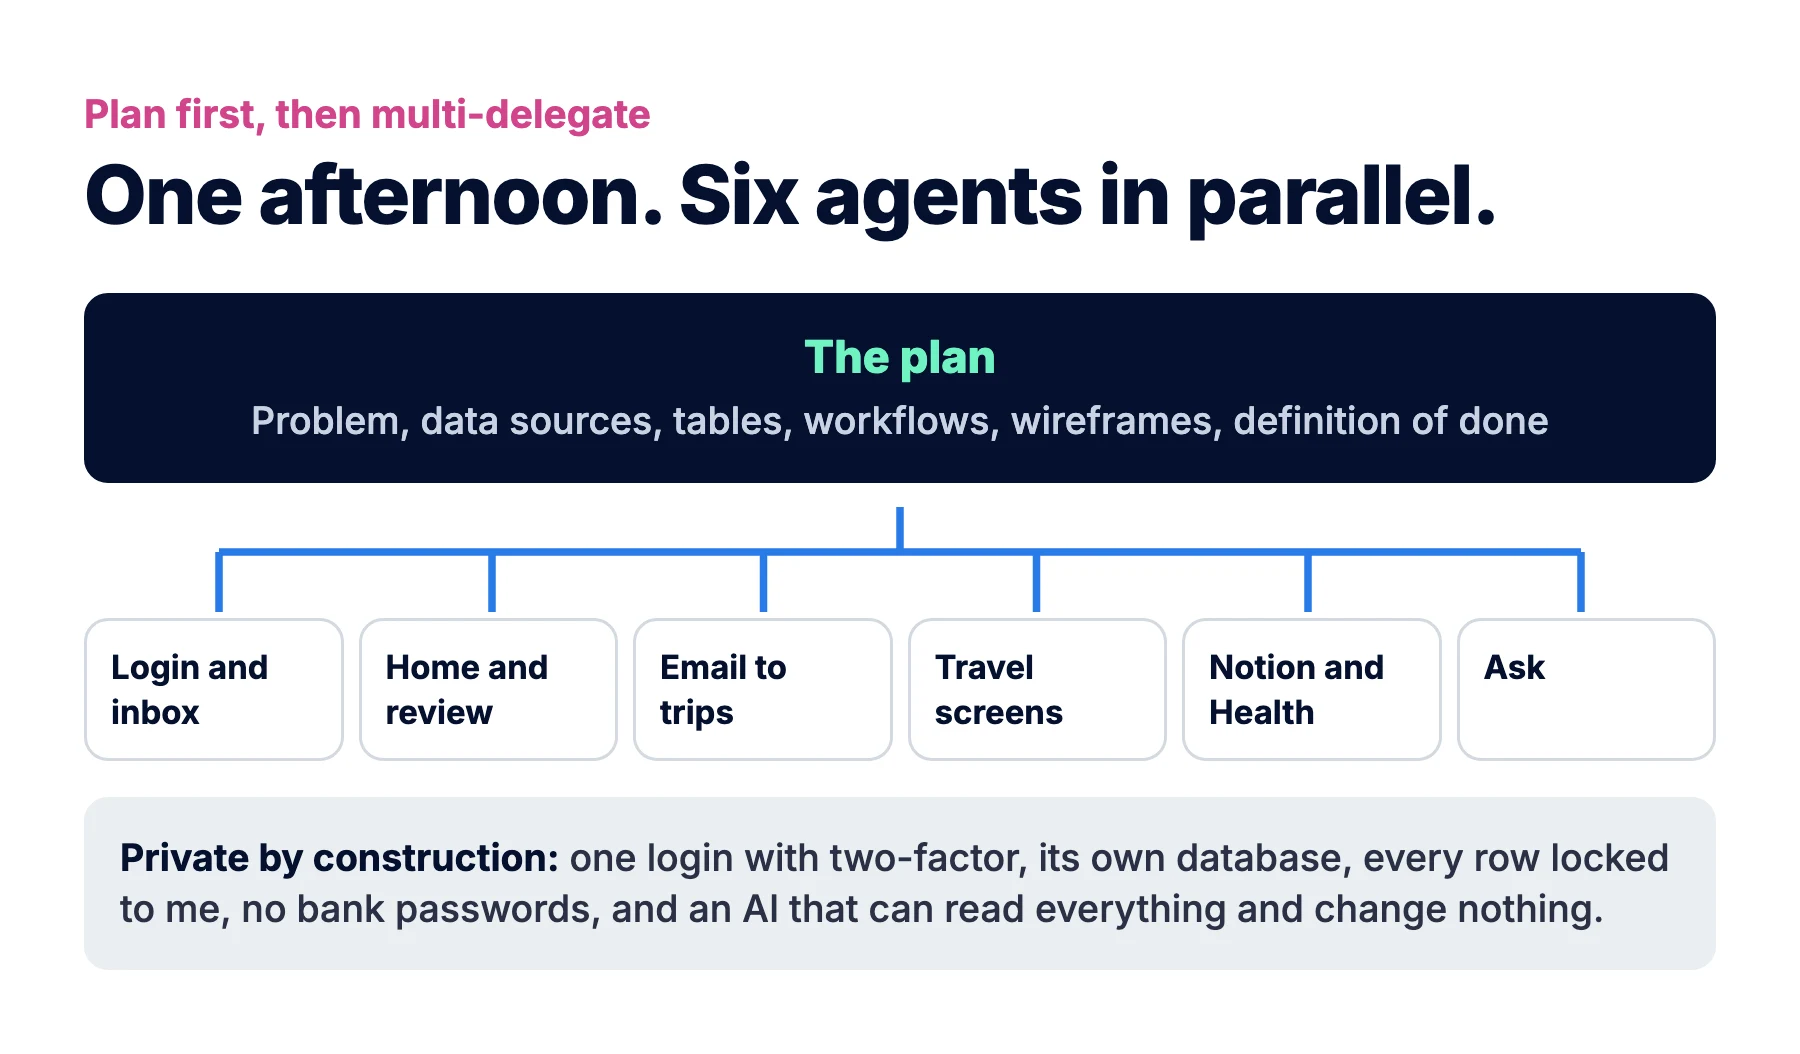
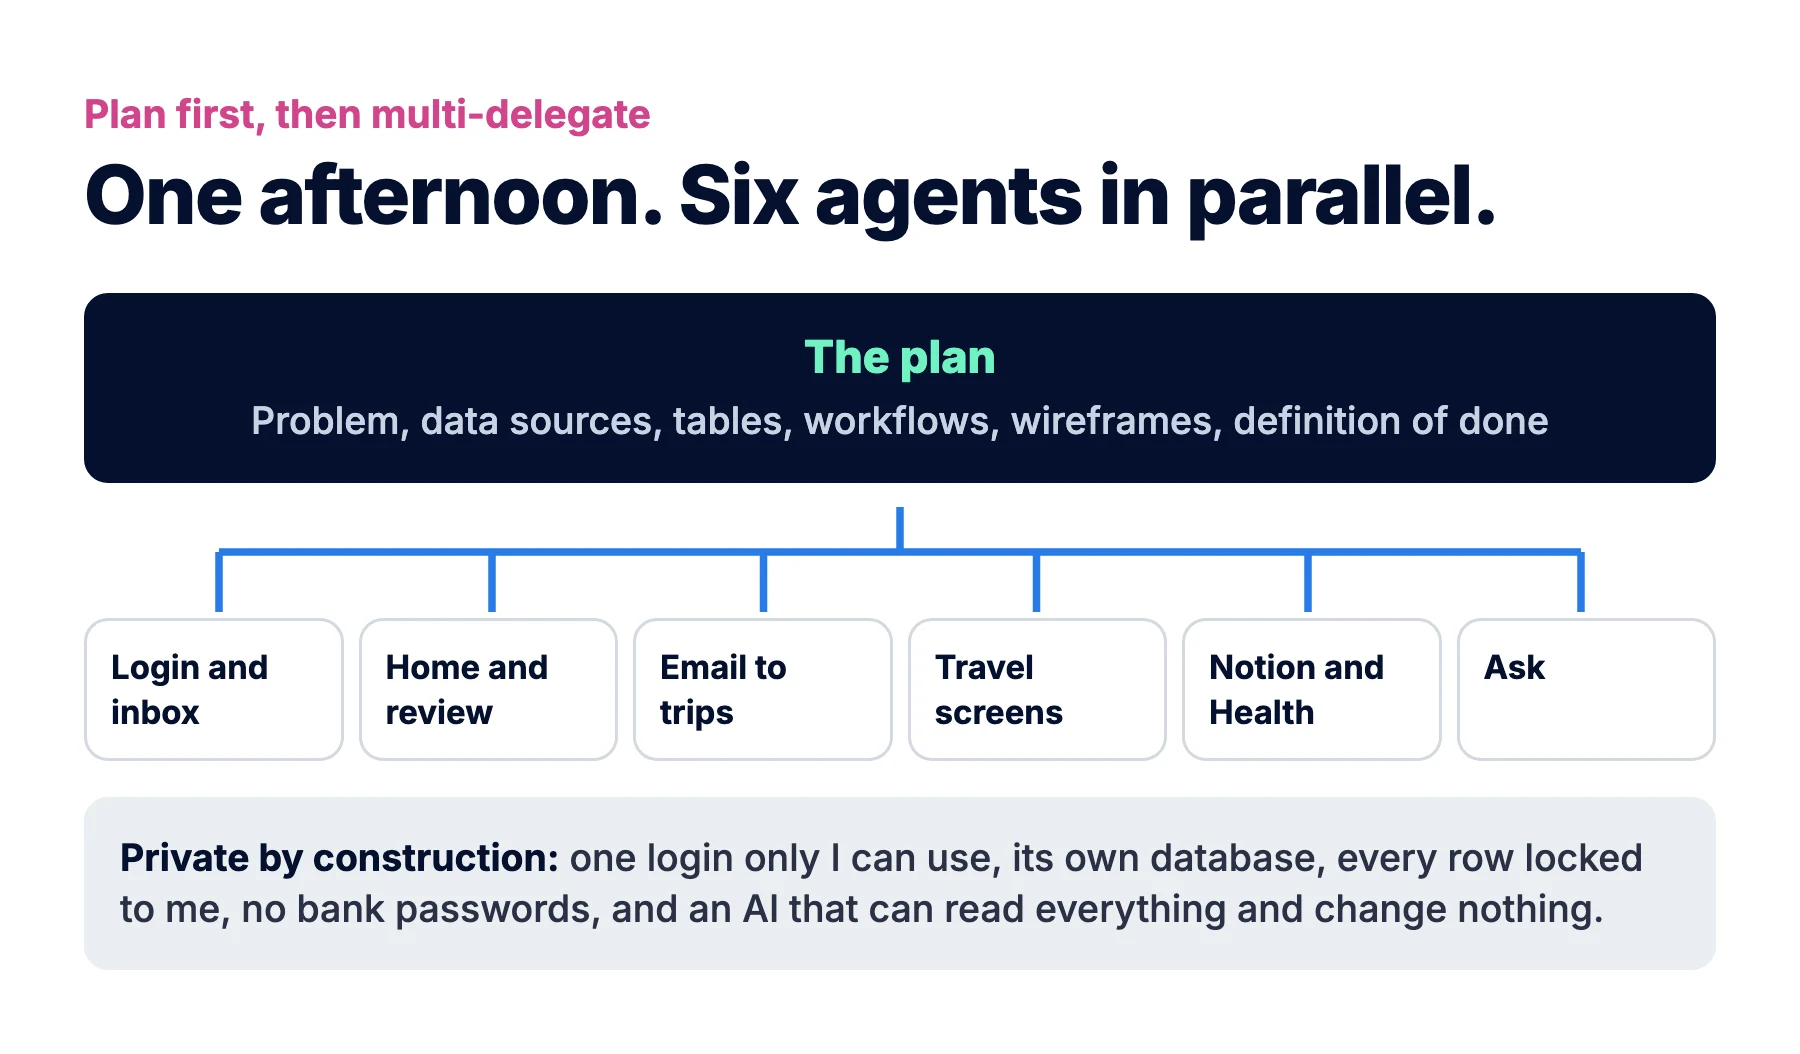
Remove two-factor from /life sign-in
The emailed link (or code) now signs the owner straight in. Owner
email allowlist, server-side checks and RLS are unchanged. Blog post,
public plan and graphic updated to stop claiming two-factor.

Changed region(s): [[0.4044, 0.7894, 0.9333, 0.8501]]

diff --git a/src/app/life/login/LoginForm.tsx b/src/app/life/login/LoginForm.tsx
@@ -4,7 +4,7 @@ import { useEffect, useState } from 'react';
 import { createLifeBrowserClient } from '@/lib/life/supabase-browser';
 import { primaryButtonClass } from '@/components/life/ui';
 
-type Step = 'loading' | 'email' | 'code' | 'enroll' | 'challenge';
+type Step = 'loading' | 'email' | 'code';
 
 const inputClass = 'w-full border border-border rounded-lg px-3 py-2 text-sm text-navy focus:outline-none focus:border-blue';
 
@@ -13,48 +13,15 @@ export default function LoginForm() {
   const [step, setStep] = useState<Step>('loading');
   const [email, setEmail] = useState('');
   const [code, setCode] = useState('');
-  const [factorId, setFactorId] = useState('');
-  const [qr, setQr] = useState('');
-  const [secret, setSecret] = useState('');
   const [error, setError] = useState('');
   const [busy, setBusy] = useState(false);
 
-  // After the email code, decide between TOTP enroll and challenge.
-  async function startMfa() {
-    const { data: aal } = await supabase.auth.mfa.getAuthenticatorAssuranceLevel();
-    if (aal?.currentLevel === 'aal2') return window.location.assign('/life');
-
-    const { data, error } = await supabase.auth.mfa.listFactors();
-    if (error) throw error;
-    const verified = data.totp.find((f) => f.status === 'verified');
-    if (verified) {
-      setFactorId(verified.id);
-      setStep('challenge');
-      return;
-    }
-    // Clear half-finished enrollments so enroll() does not collide.
-    for (const f of data.all.filter((f) => f.factor_type === 'totp' && f.status !== 'verified')) {
-      await supabase.auth.mfa.unenroll({ factorId: f.id });
-    }
-    const { data: enrolled, error: enrollError } = await supabase.auth.mfa.enroll({ factorType: 'totp', friendlyName: '/life' });
-    if (enrollError) throw enrollError;
-    setFactorId(enrolled.id);
-    setQr(enrolled.totp.qr_code);
-    setSecret(enrolled.totp.secret);
-    setStep('enroll');
-  }
-
   useEffect(() => {
-    supabase.auth.getUser().then(async ({ data }) => {
-      if (!data.user) return setStep('email');
-      try {
-        await startMfa();
-      } catch {
-        setStep('email');
-      }
+    supabase.auth.getUser().then(({ data }) => {
+      if (data.user) window.location.assign('/life');
+      else setStep('email');
     });
-    // eslint-disable-next-line react-hooks/exhaustive-deps
-  }, []);
+  }, [supabase]);
 
   async function run(fn: () => Promise<void>) {
     setBusy(true);
@@ -83,18 +50,10 @@ export default function LoginForm() {
     run(async () => {
       const { error } = await supabase.auth.verifyOtp({ email: email.trim(), token: code.trim(), type: 'email' });
       if (error) throw new Error('That code did not work. Check it or send a new one.');
-      setCode('');
-      await startMfa();
-    });
-
-  const verifyTotp = () =>
-    run(async () => {
-      const { error } = await supabase.auth.mfa.challengeAndVerify({ factorId, code: code.trim() });
-      if (error) throw new Error('That authenticator code did not work.');
       window.location.assign('/life');
     });
 
-  const submit = step === 'email' ? sendCode : step === 'code' ? verifyEmail : verifyTotp;
+  const submit = step === 'email' ? sendCode : verifyEmail;
 
   return (
     <form
@@ -110,31 +69,16 @@ export default function LoginForm() {
         <>
           <label className="block text-sm font-semibold text-navy" htmlFor="email">Email</label>
           <input id="email" type="email" required autoComplete="email" value={email} onChange={(e) => setEmail(e.target.value)} className={inputClass} />
-          <p className="text-xs text-muted">We will email you a sign-in link and a 6-digit code.</p>
+          <p className="text-xs text-muted">We will email you a sign-in link.</p>
         </>
       )}
 
       {step === 'code' && (
         <>
-          <label className="block text-sm font-semibold text-navy" htmlFor="code">Code sent to {email}</label>
-          <input id="code" inputMode="numeric" autoComplete="one-time-code" required maxLength={6} value={code} onChange={(e) => setCode(e.target.value)} className={`${inputClass} tracking-widest`} />
+          <p className="text-sm text-body-text">Check {email} and click the sign-in link. If the email shows a 6-digit code instead, enter it here.</p>
+          <label className="block text-sm font-semibold text-navy" htmlFor="code">Code</label>
+          <input id="code" inputMode="numeric" autoComplete="one-time-code" maxLength={6} value={code} onChange={(e) => setCode(e.target.value)} className={`${inputClass} tracking-widest`} />
           <button type="button" className="text-xs text-blue" onClick={() => setStep('email')}>Use a different email</button>
-        </>
-      )}
-
-      {step === 'enroll' && (
-        <>
-          <p className="text-sm text-body-text">Scan this with your authenticator app, then enter the 6-digit code it shows.</p>
-          {/* eslint-disable-next-line @next/next/no-img-element */}
-          {qr && <img src={qr} alt="Authenticator QR code" width={180} height={180} className="border border-border rounded-lg" />}
-          <p className="text-xs text-muted break-all">Or enter this key: <span className="font-mono text-navy">{secret}</span></p>
-        </>
-      )}
-
-      {(step === 'enroll' || step === 'challenge') && (
-        <>
-          <label className="block text-sm font-semibold text-navy" htmlFor="totp">Authenticator code</label>
-          <input id="totp" inputMode="numeric" autoComplete="one-time-code" required maxLength={6} value={code} onChange={(e) => setCode(e.target.value)} className={`${inputClass} tracking-widest`} />
         </>
       )}
 
@@ -142,7 +86,7 @@ export default function LoginForm() {
 
       {step !== 'loading' && (
         <button type="submit" disabled={busy} className={`${primaryButtonClass} w-full py-2 text-sm`}>
-          {busy ? 'Working…' : step === 'email' ? 'Send code' : 'Verify'}
+          {busy ? 'Working…' : step === 'email' ? 'Send link' : 'Verify'}
         </button>
       )}
     </form>

diff --git a/src/lib/posts-data.ts b/src/lib/posts-data.ts
@@ -196,7 +196,7 @@ export const BLOCKS_BY_SLUG: Record<string, Block[]> = {
     { tag: 'figure', images: ['/images/personal-os-agents.webp'], caption: 'One plan, six AI agents building in parallel, and privacy designed in from the start.' },
 
     { tag: 'h2', text: 'Private by construction' },
-    { tag: 'p', text: 'This is the most personal data I have, sitting behind a public website. So it has one login, two-factor authentication, its own database separate from everything else, every row locked to my account, and an AI that can read everything and change nothing. Bank data comes in from statements only. No passwords stored, ever.' },
+    { tag: 'p', text: 'This is the most personal data I have, sitting behind a public website. So it has one login that only my email can use, its own database separate from everything else, every row locked to my account, and an AI that can read everything and change nothing. Bank data comes in from statements only. No passwords stored, ever.' },
 
     { tag: 'h2', text: 'Read the full plan' },
     { tag: 'p', text: 'I\'ve published the whole plan: the problem, every data source, the database tables, the ten workflows, wireframes for every screen and the definition of done. <a href="/personal-os">Read the Personal OS plan here.</a>' },
@@ -215,7 +215,7 @@ export const BLOCKS_BY_SLUG: Record<string, Block[]> = {
     { tag: 'h3', text: 'What should you track in your personal life?' },
     { tag: 'p', text: 'Track only what changes a decision or keeps a memory worth keeping. A useful frame is ten areas: body, mind, people, money, work, places, time, direction, admin and legacy. Each one holds records, metrics and reflections.' },
     { tag: 'h3', text: 'Is it safe to put personal data in a database like this?' },
-    { tag: 'p', text: 'Only if it is private by construction: a separate database, a single login with two-factor authentication, row-level security on every table, no stored bank passwords, and AI access that is read-only.' },
+    { tag: 'p', text: 'Only if it is private by construction: a separate database, a single login only the owner can use, row-level security on every table, no stored bank passwords, and AI access that is read-only.' },
     { tag: 'h3', text: 'Will this be open source?' },
     { tag: 'p', text: 'That is the plan. An open source version for people who want to run their own, and a small hosted SaaS for people who want it without the setup.' },
   ],
@@ -705,7 +705,7 @@ export const FAQS_BY_SLUG: Record<string, Array<{ q: string; a: string }>> = {
     },
     {
       q: 'Is it safe to put personal data in a database like this?',
-      a: 'Only if it is private by construction: a separate database, a single login with two-factor authentication, row-level security on every table, no stored bank passwords, and AI access that is read-only.',
+      a: 'Only if it is private by construction: a separate database, a single login only the owner can use, row-level security on every table, no stored bank passwords, and AI access that is read-only.',
     },
     {
       q: 'Will this be open source?',

diff --git a/src/app/life/auth/callback/route.ts b/src/app/life/auth/callback/route.ts
@@ -2,7 +2,7 @@ import { NextResponse, type NextRequest } from 'next/server';
 import { createLifeClient } from '@/lib/life/supabase-server';
 
 // Landing point for the emailed sign-in link. Exchanges the one-time code for a
-// session cookie, then sends the owner to /life/login to complete the TOTP step.
+// session cookie, then sends the owner into /life.
 export async function GET(request: NextRequest) {
   const code = request.nextUrl.searchParams.get('code');
   const login = new URL('/life/login', request.url);
@@ -10,7 +10,7 @@ export async function GET(request: NextRequest) {
   if (code) {
     const supabase = await createLifeClient();
     const { error } = await supabase.auth.exchangeCodeForSession(code);
-    if (!error) return NextResponse.redirect(login);
+    if (!error) return NextResponse.redirect(new URL('/life', request.url));
   }
 
   login.searchParams.set('error', 'link');

diff --git a/src/lib/life/auth.ts b/src/lib/life/auth.ts
@@ -6,14 +6,12 @@ function isOwnerEmail(email: string | undefined) {
   return !!email && email.toLowerCase() === process.env.LIFE_OWNER_EMAIL?.toLowerCase();
 }
 
-// Returns the session client if the caller is the owner with MFA verified (aal2),
-// otherwise null. Use in route handlers: `if (!ctx) return 401`.
+// Returns the session client if the caller is the signed-in owner, otherwise
+// null. Use in route handlers: `if (!ctx) return 401`.
 export async function getOwnerContext() {
   const supabase = await createLifeClient();
   const { data: { user } } = await supabase.auth.getUser();
   if (!user || !isOwnerEmail(user.email)) return null;
-  const { data: aal } = await supabase.auth.mfa.getAuthenticatorAssuranceLevel();
-  if (aal?.currentLevel !== 'aal2') return null;
   return { supabase, user };
 }
 

diff --git a/docs/architecture/life-plan.html b/docs/architecture/life-plan.html
@@ -740,7 +740,7 @@
         <li><b>Ship flow:</b> feature branch → PR → merge to main → Vercel deploys automatically</li>
       </ul></div>
       <div class="card"><h4>Security</h4><ul class="tight">
-        <li>One login: only Dave's email can sign in, with two-factor authentication</li>
+        <li>One login: only Dave's email can sign in, by emailed link</li>
         <li>Every page and API route checks the session on the server, not only at the edge</li>
         <li>Row-level security on every table, limited to the owner</li>
         <li>Ingest endpoints accept only signed requests with a shared secret</li>

diff --git a/public/personal-os/index.html b/public/personal-os/index.html
@@ -741,7 +741,7 @@
         <li><b>Ship flow:</b> feature branch → PR → merge to main → Vercel deploys automatically</li>
       </ul></div>
       <div class="card"><h4>Security</h4><ul class="tight">
-        <li>One login: only Dave's email can sign in, with two-factor authentication</li>
+        <li>One login: only Dave's email can sign in, by emailed link</li>
         <li>Every page and API route checks the session on the server, not only at the edge</li>
         <li>Row-level security on every table, limited to the owner</li>
         <li>Ingest endpoints accept only signed requests with a shared secret</li>

diff --git a/docs/architecture/life.md b/docs/architecture/life.md
@@ -30,7 +30,7 @@ All ingestion goes through one raw inbox (`source_items`), then Claude extractio
 |---|---|---|
 | Database | New Supabase project `dave-life` (Singapore) | Separate from the `leads` project and its keys |
 | Hosting | Same Next.js 16 app, `/life/*` | One deploy; ship flow unchanged |
-| Auth | Supabase Auth, allowlist of one email (`LIFE_OWNER_EMAIL`), TOTP MFA required | One user |
+| Auth | Supabase Auth, allowlist of one email (`LIFE_OWNER_EMAIL`), emailed link or code, no MFA (owner's call) | One user |
 | Data access | RLS on every table (`owner_id = auth.uid()`). Request-path code uses the publishable key + user session. Secret key only in ingest routes and scripts | A broken page cannot leak rows |
 | Files | Private bucket `life-files`, signed URLs (5 min) | |
 | Gmail | Google Apps Script in dhajdu@gmail.com, hourly, POSTs to `/api/life/ingest` | No OAuth app, no 7-day token expiry |
@@ -229,7 +229,7 @@ Each slice is a branch and PR into `main`. Gate = what must be true to merge.
 | # | Slice | Gate |
 |---|---|---|
 | 1 | Create `dave-life` project; base migration with every table above, RLS, column comments, `life_reader`; seed `areas`, Phase 1 `metrics`, `sources`; env vars in Vercel | `get_advisors` security returns no issues; publishable key with no session reads zero rows from every table; `life_reader` cannot insert |
-| 2 | Auth: `proxy.ts` gate, `requireOwner()` in layout and every route/action, login with TOTP, `noindex`, sitemap/robots exclusion | Logged out: every `/life` page redirects, every `/api/life` route (except ingest with valid secret) returns 401. A second Google account is refused |
+| 2 | Auth: `proxy.ts` gate, `requireOwner()` in layout and every route/action, email link login, `noindex`, sitemap/robots exclusion | Logged out: every `/life` page redirects, every `/api/life` route (except ingest with valid secret) returns 401. A second Google account is refused |
 | 3 | Ingest plumbing: `/api/life/ingest`, `source_items`, `workflow_runs`, Sources page, Inbox page with approve/reject | Replaying the same item is a no-op; bad secret returns 401; an injected test item shows in Inbox and resolves |
 | 4 | W2 Notion import + nightly cron | 579 journal + 65 EO pages imported; rerun creates zero rows; 5 sampled daily entries contain only that day's text; 76s, 2028 and date mismatches are in Inbox; an edit in Notion appears next morning |
 | 5 | Home, area pages, timeline, search | Every Phase 1 metric charts on its area page; a term from a 2021 entry is found by search; timeline renders 2021 to now |
